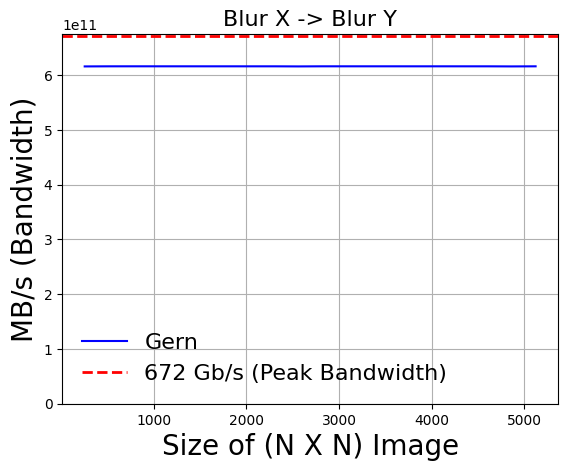
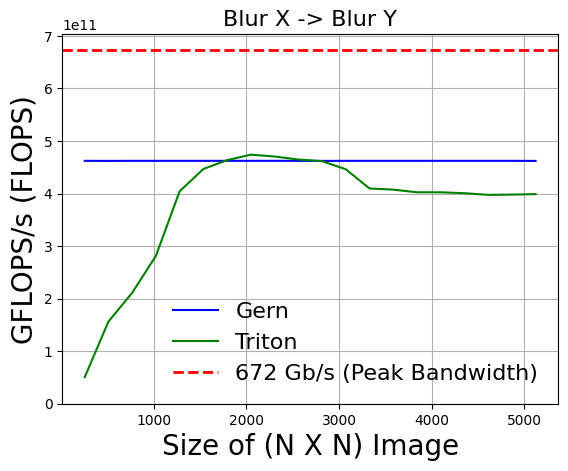
----checkpoint-----

diff --git a/plotter.py b/plotter.py
@@ -157,11 +157,11 @@ def get_speedup_up(systems, compare_to, dir,
 # def num_bytes_blur(x):
 #     return x * x * 4 * 2 # * 2 for two inputs
 
-generate_plot(["gern"], 
+generate_plot(["gern", "triton"], 
                "apps/blur",
               "Blur X -> Blur Y", "Size of (N X N) Image", 
-              "GFLOPS/s (FLOPS)", "flops_gern", 
-              ['Gern'], 
-              [colors["gern"]],
-               roofline = True,
-               bandwidth = False)
+              "GFLOPS/s (FLOPS)", "bandwidth_gern", 
+              ['Gern', 'Triton'], 
+              [colors["gern"], "green"],
+               roofline = False,
+               bandwidth = True)
